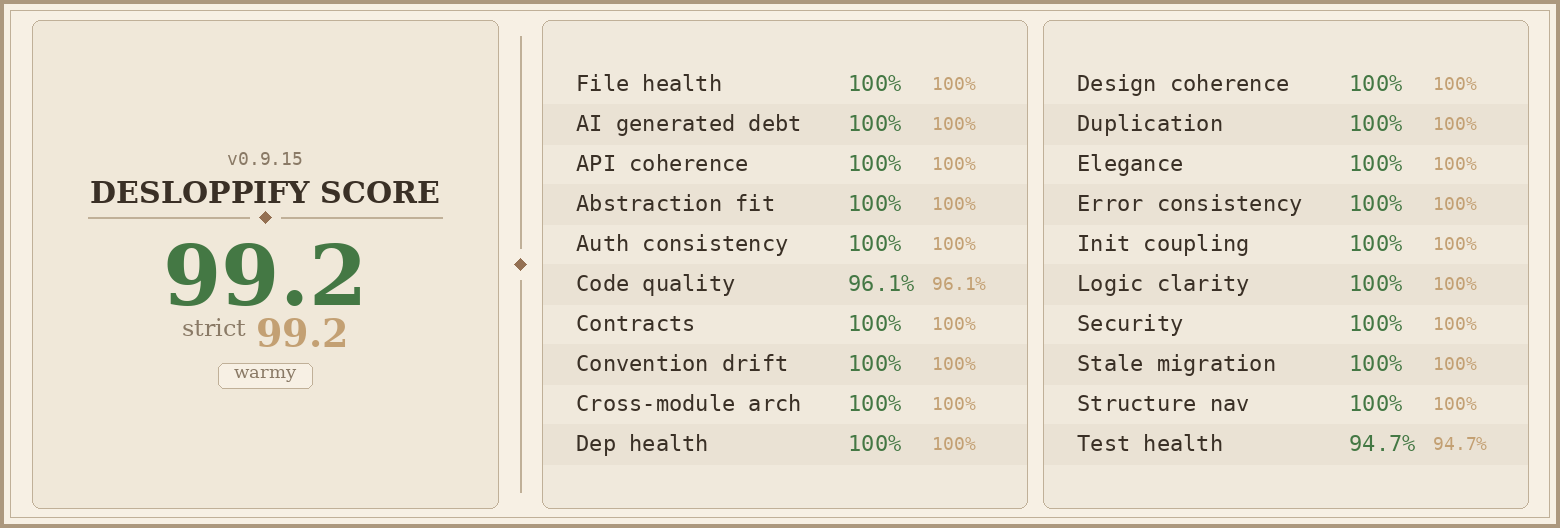
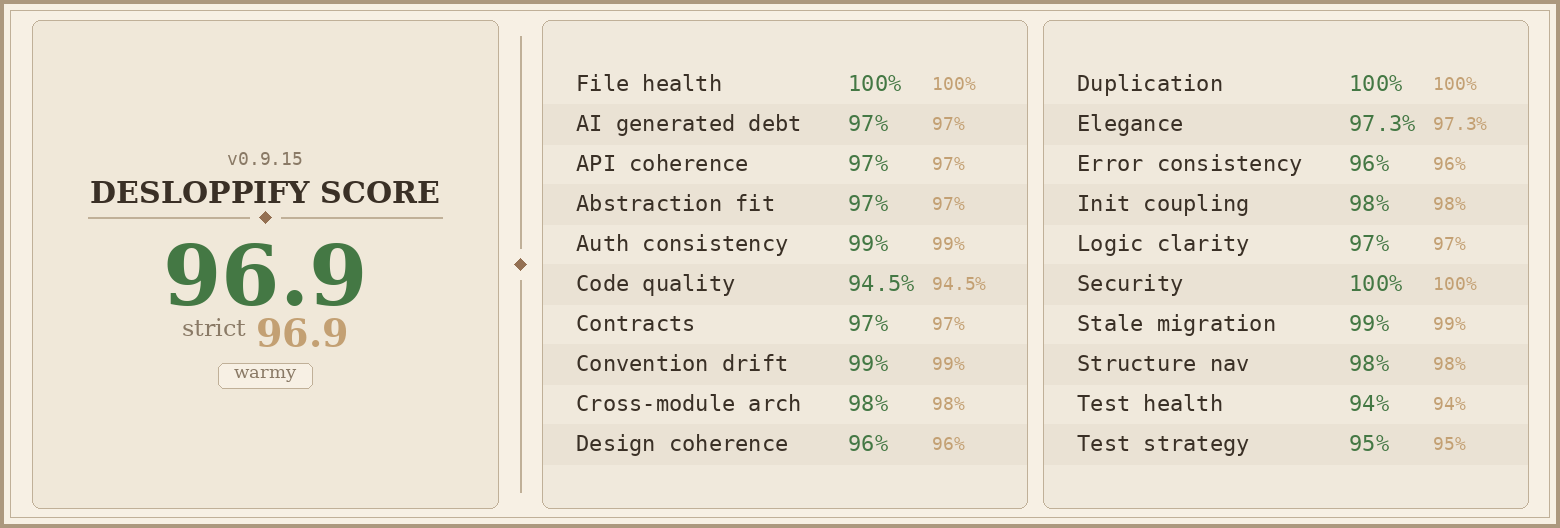
chore: update repo URLs to codelined-ag/warmy

diff --git a/src/cli.ts b/src/cli.ts
@@ -51,8 +51,8 @@ program.command("set-message")
 
 program.addHelpText("afterAll", `
   ──────────────────────────────────────────────
-  📖  Readme:  https://github.com/slayense/warmy
-  ⚠️  Issues:  https://github.com/slayense/warmy/issues
+  📖  Readme:  https://github.com/codelined-ag/warmy
+  ⚠️  Issues:  https://github.com/codelined-ag/warmy/issues
 
   The 5-hour window starts from your first API request.
   Warmy sends a message 1 minute after it expires,